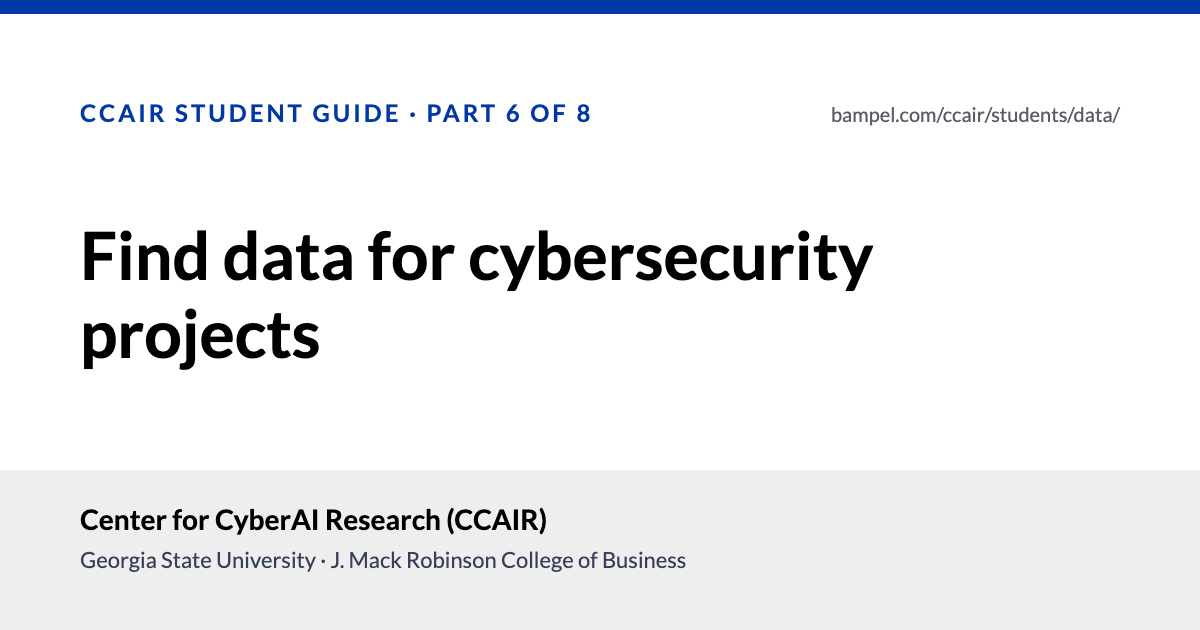
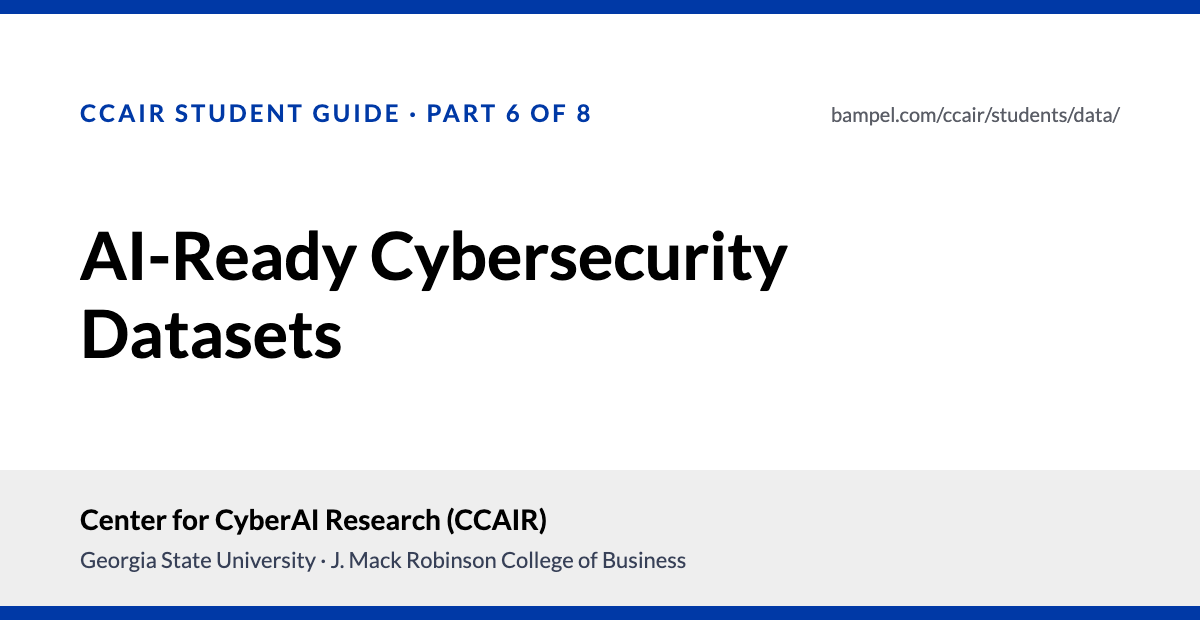
CCAIR: AI-ready dataset catalog and eight topic pages
- Retitle the student data page "AI-Ready Cybersecurity Datasets" and add a build-time intro (counts, licenses, access methods) above the existing text.
- Generate eight topic pages under /ccair/students/data/<topic>/ with counts, a comparison paragraph, ItemList JSON-LD and links to catalog entries; add them to the sitemap and llms.txt.
- Add HackerSignal to datasets.json and replace the Resources placeholder with HackerSignal and a catalog card; render resource links in the static shell.
- Link the catalog from Home, Resources and Materials.
- Redirect /ccair/datasets/ to /ccair/students/data/ (301).
- Show one date when every dataset on a page was checked the same day.

Changed region(s): [[0.0, 0.9349, 1.0, 0.9952], [0.0617, 0.3619, 0.74, 0.4524], [0.0617, 0.4825, 0.3083, 0.6032]]

diff --git a/static/ccair/ccair-pages.jsx b/static/ccair/ccair-pages.jsx
@@ -204,6 +204,7 @@ function HomePage() {
           <LinkCard href="/ccair/resources/" title="Resources" more="See resources"><p>Datasets, benchmarks, tools, and free career guides for students.</p></LinkCard>
           <LinkCard href="/ccair/contact/" title="Work with us" more="Get in touch"><p>Prospective students, collaborators, and partners: here is how to reach us.</p></LinkCard>
         </div>
+        <p style={{ marginTop: 24 }}>Need training data? Browse the <a href="/ccair/students/data/">AI-ready cybersecurity dataset catalog</a>, with each dataset's license and known weaknesses.</p>
       </Section>
     </div>
   );
@@ -454,7 +455,7 @@ function ResourcesPage() {
         </Reveal>
       </Section>
 
-      <Section id="assets" alt title="Research assets" intro="Datasets and tools from CCAIR studies, shared with the CyberAI community. More resources are planned.">
+      <Section id="assets" alt title="Research assets" intro="Datasets and tools from CCAIR studies, shared with the CyberAI community.">
         <DataSection needs={['resources']} what="research assets">
         <div className="toolbar"><SegmentedControl label="Asset type" options={tabs} value={tab} onChange={setTab} /></div>
         <div className="grid grid-3">
@@ -464,6 +465,7 @@ function ResourcesPage() {
               <h3>{r.title}</h3>
               <p>{r.description}</p>
               <div className="chips">{(r.tags || []).map((t) => <span key={t} className="chip">{t}</span>)}</div>
+              {r.link && <div className="actions" style={{ marginTop: 16 }}><a className="btn btn-secondary btn-sm" href={r.link}>{r.linkLabel || 'Open'}<span className="sr-only">: {r.title}</span></a></div>}
             </Reveal>
           ))}
         </div>
@@ -537,6 +539,7 @@ function MaterialsPage() {
       <section className="section" aria-labelledby="materials-list-title">
         <div className="wrap">
           <h2 id="materials-list-title" className="sr-only">Materials list</h2>
+          <p>Looking for public datasets from other teams? See the <a href="/ccair/students/data/">AI-ready cybersecurity dataset catalog</a>.</p>
           <DataSection needs={['materials']} what="research materials">
           <div className="toolbar"><SegmentedControl label="Material type" options={options} value={kind} onChange={setKind} /></div>
           {shown.length === 0 && <p className="empty">Nothing of this type is listed yet.</p>}

diff --git a/scripts/build-ccair.js b/scripts/build-ccair.js
@@ -229,7 +229,7 @@ function resourcesList(esc, body) {
     const items = all.filter((r) => r.category === cat);
     if (!items.length) continue;
     const label = cat[0].toUpperCase() + cat.slice(1) + 's';
-    out.push(`\n      <h3>${label}</h3>\n        <ul class="static-list">\n${items.map((r) => `          <li class="static-item"><strong>${esc(r.title)}</strong><span>${esc(r.status || '')}</span><span>${esc(r.description || '')}</span>${(r.tags || []).length ? `<span>${esc((r.tags || []).join(', '))}</span>` : ''}</li>`).join('\n')}\n        </ul>`);
+    out.push(`\n      <h3>${label}</h3>\n        <ul class="static-list">\n${items.map((r) => `          <li class="static-item"><strong>${esc(r.title)}</strong><span>${esc(r.status || '')}</span><span>${esc(r.description || '')}</span>${(r.tags || []).length ? `<span>${esc((r.tags || []).join(', '))}</span>` : ''}${r.link ? `<a href="${esc(r.link)}">${esc(r.linkLabel || 'Open')}</a>` : ''}</li>`).join('\n')}\n        </ul>`);
   }
   return out.join('');
 }
